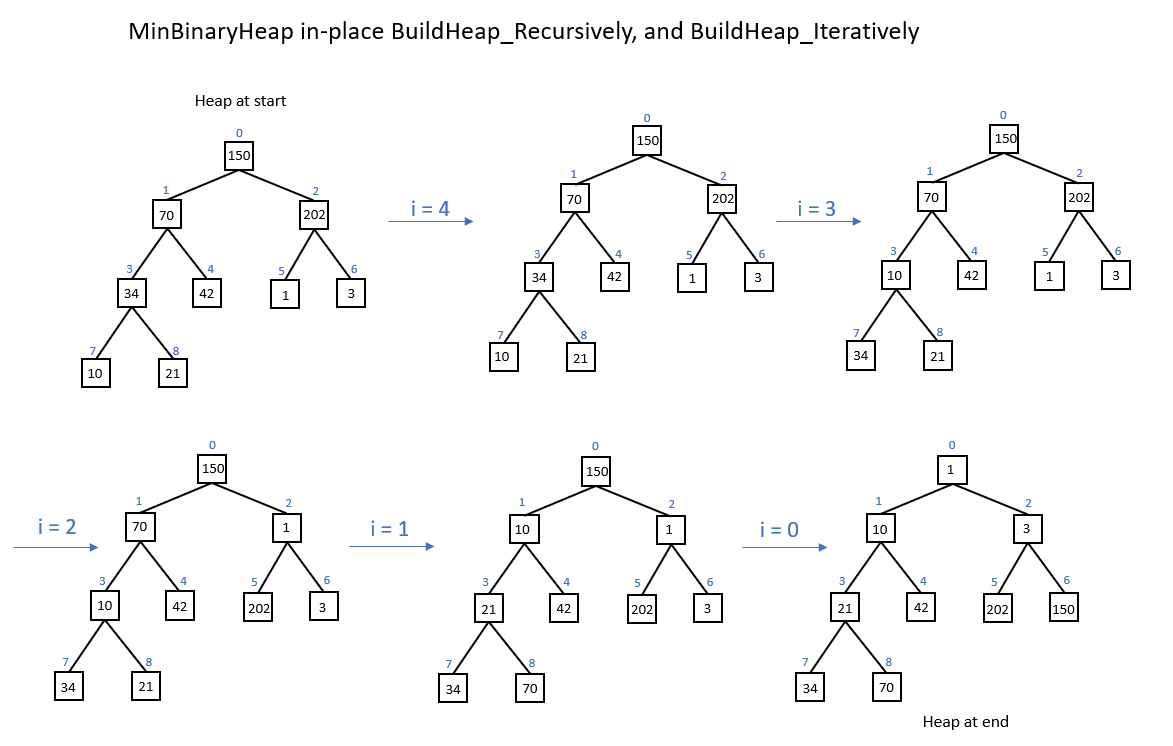
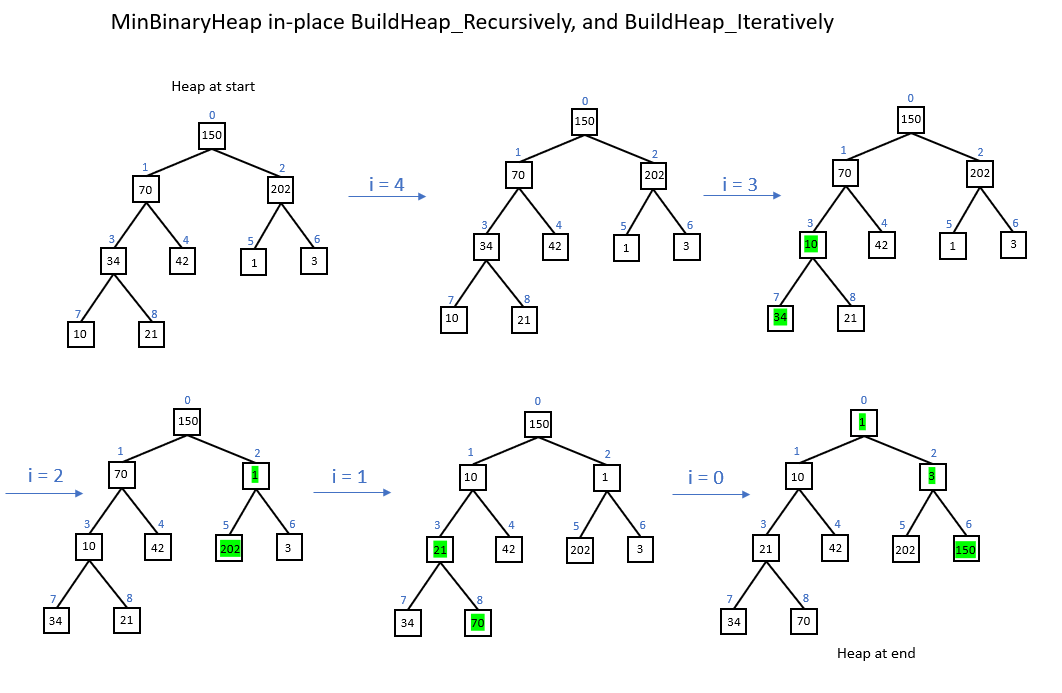
added image for MinMax Heap build with duplicate keys

diff --git a/docs/api/CSFundamentalsTests.DataStructures.BinaryHeaps.MinMaxBinaryHeapTests.html b/docs/api/CSFundamentalsTests.DataStructures.BinaryHeaps.MinMaxBinaryHeapTests.html
@@ -141,7 +141,7 @@ public void BuildHeapRecursively_DistinctValues()</code></pre>
   <a id="CSFundamentalsTests_DataStructures_BinaryHeaps_MinMaxBinaryHeapTests_BuildHeapRecursively_DuplicateValues_" data-uid="CSFundamentalsTests.DataStructures.BinaryHeaps.MinMaxBinaryHeapTests.BuildHeapRecursively_DuplicateValues*"></a>
   <h4 id="CSFundamentalsTests_DataStructures_BinaryHeaps_MinMaxBinaryHeapTests_BuildHeapRecursively_DuplicateValues" data-uid="CSFundamentalsTests.DataStructures.BinaryHeaps.MinMaxBinaryHeapTests.BuildHeapRecursively_DuplicateValues">BuildHeapRecursively_DuplicateValues()</h4>
   <div class="markdown level1 summary"><p>Tests the correctness of Build operation, recursive version when inserting duplicate values.
-To visualize in-place MinMax Binary Heap building process see <img src="../images/Heaps/MinMaxHeap-Build.PNG">.</p>
+To visualize in-place MinMax Binary Heap building process see <img src="../images/Heaps/MinMaxHeap-Build-WithDuplicateKeys.PNG">.</p>
 </div>
   <div class="markdown level1 conceptual"></div>
   <h5 class="decalaration">Declaration</h5>

diff --git a/Tests/DataStructures/BinaryHeaps/MinMaxBinaryHeapTests.cs b/Tests/DataStructures/BinaryHeaps/MinMaxBinaryHeapTests.cs
@@ -67,7 +67,7 @@ namespace CSFundamentalsTests.DataStructures.BinaryHeaps
 
         /// <summary>
         /// Tests the correctness of Build operation, recursive version when inserting duplicate values. 
-        /// To visualize in-place MinMax Binary Heap building process see <img src = "../Images/Heaps/MinMaxHeap-Build.png"/>.
+        /// To visualize in-place MinMax Binary Heap building process see <img src = "../Images/Heaps/MinMaxHeap-Build-WithDuplicateKeys.png"/>.
         /// </summary>
         [TestMethod]
         public void BuildHeapRecursively_DuplicateValues()
